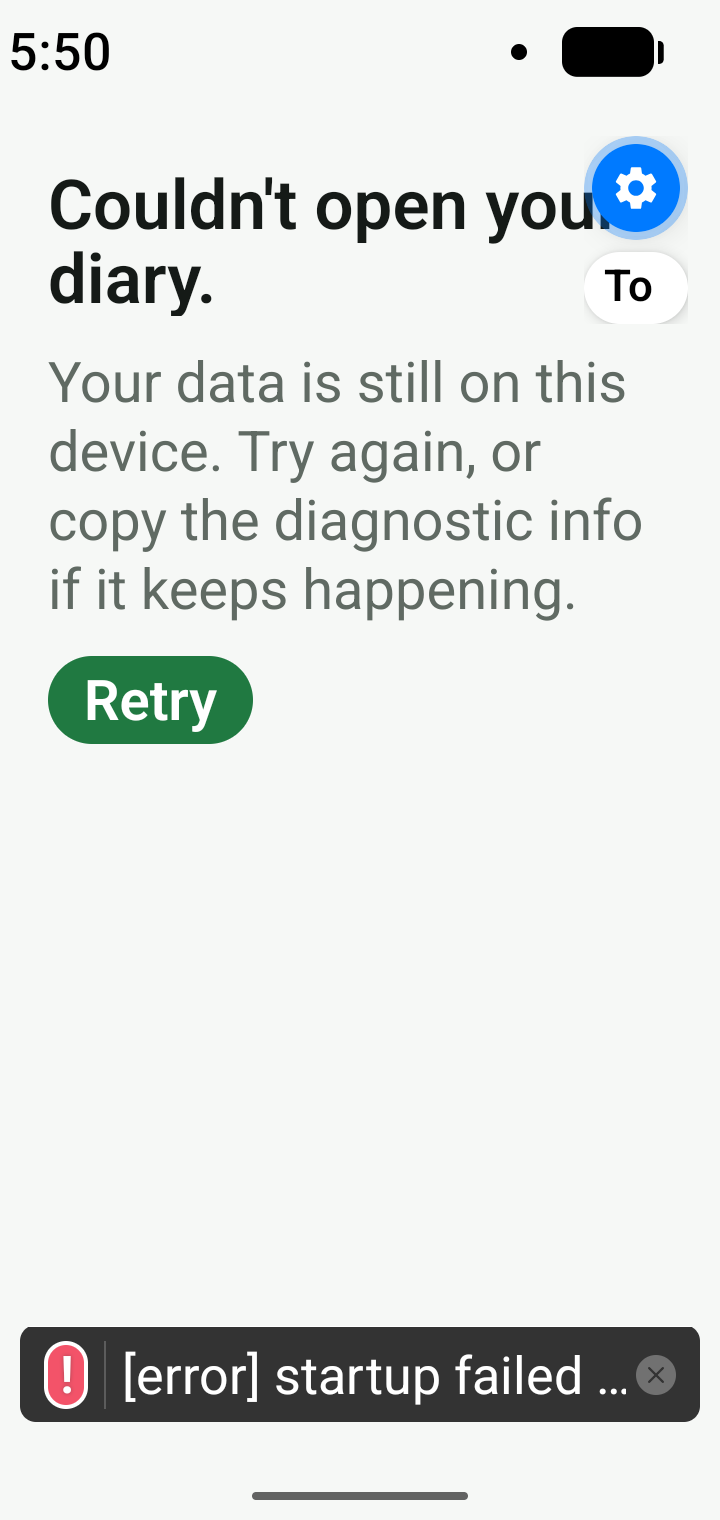
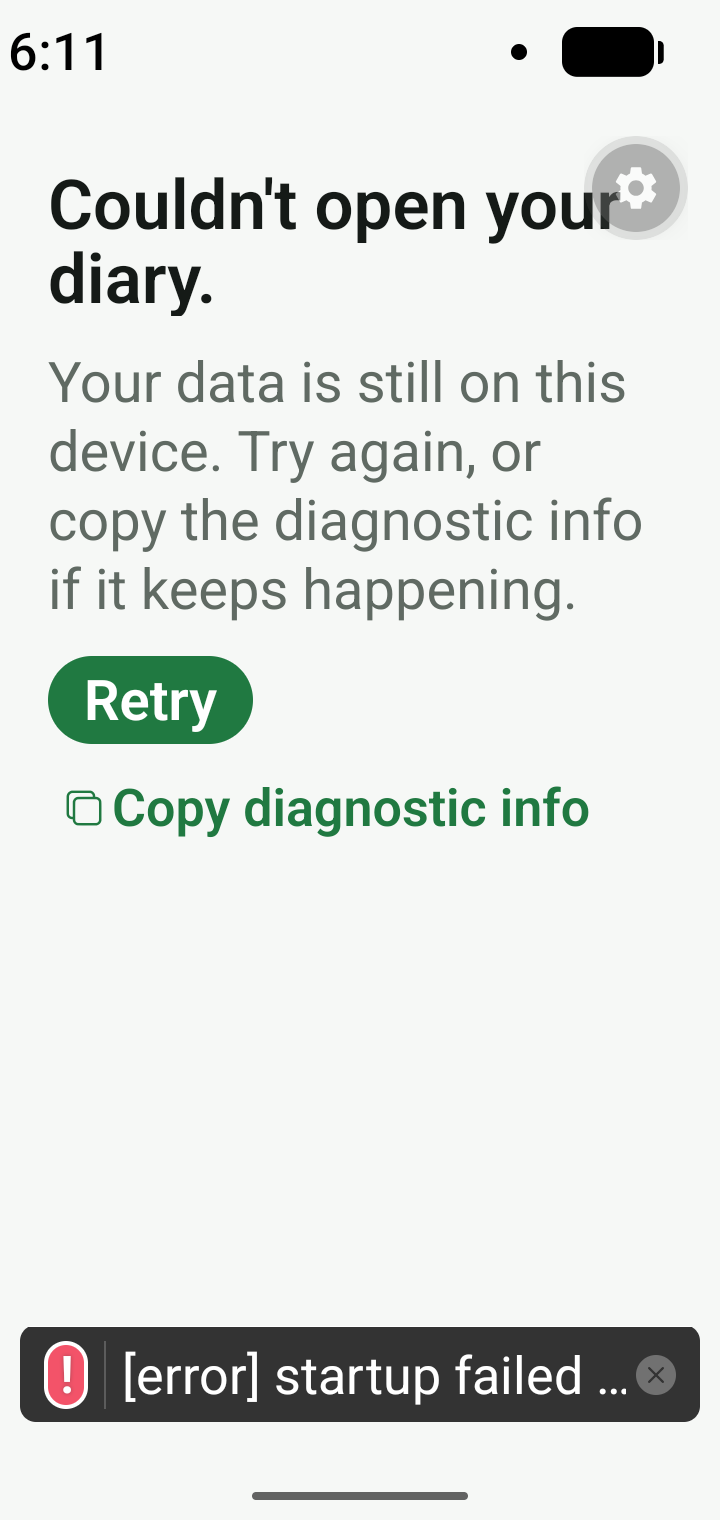
feat(bootstrap): crypto UUIDs and Copy diagnostic info
Adds expo-crypto (randomUUID for record ids) and expo-clipboard (UX-20
Copy diagnostic info), approved in M1-Q1. Both dev builds rebuilt; the
m0-shell flow closes the dev-client menu on a fresh install. Recovery
screenshots recaptured; Copy and Retry checked end to end on iOS.

Refs: DATA-03, UX-20, ARCH-15, ARCH-20

diff --git a/src/bootstrap/__tests__/startup.test.tsx b/src/bootstrap/__tests__/startup.test.tsx
@@ -44,7 +44,7 @@ describe('ARCH-17 / UX-20: StartupGate', () => {
   it('holds the launch screen until startup succeeds, then mounts the app', async () => {
     const start = deferred<AppServices>();
     await renderWithProviders(
-      <StartupGate start={() => start.promise} appVersion="0.1.0">
+      <StartupGate start={() => start.promise} appVersion="0.1.0" copyText={jest.fn()}>
         <MealCount />
       </StartupGate>,
     );
@@ -63,7 +63,7 @@ describe('ARCH-17 / UX-20: StartupGate', () => {
       .mockRejectedValueOnce(new MigrationError('Migration failed', 2))
       .mockResolvedValueOnce(services);
     await renderWithProviders(
-      <StartupGate start={start} appVersion="0.1.0">
+      <StartupGate start={start} appVersion="0.1.0" copyText={jest.fn()}>
         <MealCount />
       </StartupGate>,
     );
@@ -89,14 +89,9 @@ describe('UX-20: RecoveryScreen', () => {
     );
   });
 
-  it('copies diagnostic info when a clipboard is available; hides the action otherwise', async () => {
+  it('Copy diagnostic info copies versions + category; Retry retries', async () => {
     const copyText = jest.fn();
     const onRetry = jest.fn();
-    const first = await renderWithProviders(
-      <RecoveryScreen error={error} diagnostics={{ appVersion: '0.1.0', schemaVersion: 1 }} onRetry={onRetry} />,
-    );
-    expect(screen.queryByRole('button', { name: 'Copy diagnostic info' })).toBeNull();
-    await first.unmount();
     await renderWithProviders(
       <RecoveryScreen
         error={error}
@@ -107,6 +102,7 @@ describe('UX-20: RecoveryScreen', () => {
     );
     await fireEvent.press(screen.getByRole('button', { name: 'Copy diagnostic info' }));
     expect(copyText).toHaveBeenCalledWith(expect.stringContaining('error migration (v3)'));
+    expect(copyText.mock.calls[0][0]).not.toMatch(/SQLITE|meals/);
     await fireEvent.press(screen.getByRole('button', { name: 'Retry' }));
     expect(onRetry).toHaveBeenCalledTimes(1);
   });

diff --git a/src/bootstrap/RecoveryScreen.tsx b/src/bootstrap/RecoveryScreen.tsx
@@ -26,8 +26,8 @@ export type RecoveryScreenProps = {
   diagnostics: DiagnosticContext;
   onRetry: () => void;
   retrying?: boolean;
-  /** Clipboard writer; the action is hidden until one is available (M1-Q1). */
-  copyText?: (text: string) => Promise<void> | void;
+  /** Clipboard writer (expo-clipboard in the app). */
+  copyText: (text: string) => Promise<void> | void;
 };
 
 export function RecoveryScreen({ error, diagnostics, onRetry, retrying = false, copyText }: RecoveryScreenProps) {
@@ -56,13 +56,11 @@ export function RecoveryScreen({ error, diagnostics, onRetry, retrying = false, 
       <AppText color="textSecondary">{t('startup.body')}</AppText>
       <View style={{ gap: theme.spacing[2], alignItems: 'flex-start' }}>
         <PrimaryButton label={t('startup.retry')} onPress={onRetry} loading={retrying} testID="recovery-retry" />
-        {copyText ? (
-          <TextAction
-            label={t('startup.copyDiagnostics')}
-            icon="copy-outline"
-            onPress={() => void copyText(diagnosticInfo(error, diagnostics))}
-          />
-        ) : null}
+        <TextAction
+          label={t('startup.copyDiagnostics')}
+          icon="copy-outline"
+          onPress={() => void copyText(diagnosticInfo(error, diagnostics))}
+        />
       </View>
     </ScrollView>
   );

diff --git a/src/data/db/appIds.ts b/src/data/db/appIds.ts
@@ -1,14 +1,6 @@
-// The app's record-ID source (DATA-03). Uses `crypto.getRandomValues` when the runtime has it; Hermes on SDK 57
-// doesn't, so it falls back to Math.random bytes. Interim until M1-Q1 (expo-crypto) is decided: the swap is local
-// to this file and doesn't touch stored data (IDs are opaque UUID strings either way).
-import { uuidV4FromBytes, type IdGenerator } from './ids';
+// The app's record-ID source (DATA-03): cryptographically random v4 UUIDs from expo-crypto (M1-Q1).
+import { randomUUID } from 'expo-crypto';
 
-function randomBytes(): Uint8Array {
-  const bytes = new Uint8Array(16);
-  const cryptoApi = (globalThis as { crypto?: { getRandomValues?: (b: Uint8Array) => Uint8Array } }).crypto;
-  if (cryptoApi?.getRandomValues) return cryptoApi.getRandomValues(bytes);
-  for (let i = 0; i < bytes.length; i++) bytes[i] = Math.floor(Math.random() * 256);
-  return bytes;
-}
+import type { IdGenerator } from './ids';
 
-export const appIds: IdGenerator = { newId: () => uuidV4FromBytes(randomBytes()) };
+export const appIds: IdGenerator = { newId: () => randomUUID() };

diff --git a/src/data/db/__tests__/ids.test.ts b/src/data/db/__tests__/ids.test.ts
@@ -1,12 +1,13 @@
-import { isUuid, sequentialIds, uuidV4FromBytes } from '../ids';
+import { appIds } from '../appIds';
+import { isUuid, sequentialIds } from '../ids';
 
 describe('DATA-03: UUID ids', () => {
-  it('formats random bytes as a version-4 UUID', () => {
-    const id = uuidV4FromBytes(new Uint8Array(16).fill(0xff));
-    expect(id).toBe('ffffffff-ffff-4fff-bfff-ffffffffffff');
-    expect(isUuid(id)).toBe(true);
-    expect(isUuid(uuidV4FromBytes(new Uint8Array(16)))).toBe(true);
-    expect(() => uuidV4FromBytes(new Uint8Array(15))).toThrow(RangeError);
+  it('the app generates distinct v4 UUIDs', () => {
+    const a = appIds.newId();
+    const b = appIds.newId();
+    expect(isUuid(a)).toBe(true);
+    expect(isUuid(b)).toBe(true);
+    expect(a).not.toBe(b);
   });
 
   it('sequential test ids are valid and distinct', () => {

diff --git a/src/app/_layout.tsx b/src/app/_layout.tsx
@@ -1,3 +1,4 @@
+import { setStringAsync } from 'expo-clipboard';
 import { Stack } from 'expo-router';
 import { StatusBar } from 'expo-status-bar';
 
@@ -8,10 +9,13 @@ import { StartupGate } from '@/bootstrap/StartupGate';
 
 const { config } = initializeApp();
 
+// UX-20 Copy diagnostic info (versions + error category only).
+const copyText = (text: string) => void setStringAsync(text);
+
 export default function RootLayout() {
   return (
     <AppProviders>
-      <StartupGate start={startServices} appVersion={config.appVersion}>
+      <StartupGate start={startServices} appVersion={config.appVersion} copyText={copyText}>
         {/* Light content: the app bar is green in light mode and dark surface in dark mode (DS-07). */}
         <StatusBar style="light" />
         <Stack screenOptions={{ headerShown: false }}>

diff --git a/src/data/db/ids.ts b/src/data/db/ids.ts
@@ -11,16 +11,6 @@ export function isUuid(value: string): boolean {
   return UUID.test(value);
 }
 
-/** Formats 16 random bytes as an RFC 9562 version-4 UUID. */
-export function uuidV4FromBytes(bytes: Uint8Array): string {
-  if (bytes.length !== 16) throw new RangeError('Expected 16 bytes');
-  const b = Uint8Array.from(bytes);
-  b[6] = (b[6]! & 0x0f) | 0x40;
-  b[8] = (b[8]! & 0x3f) | 0x80;
-  const hex = Array.from(b, (x) => x.toString(16).padStart(2, '0')).join('');
-  return `${hex.slice(0, 8)}-${hex.slice(8, 12)}-${hex.slice(12, 16)}-${hex.slice(16, 20)}-${hex.slice(20)}`;
-}
-
 /** Deterministic IDs for tests: `00000000-0000-4000-8000-000000000001`, … */
 export function sequentialIds(start = 1): IdGenerator {
   let next = start;

diff --git a/jest.setup.ts b/jest.setup.ts
@@ -10,3 +10,6 @@ jest.spyOn(console, 'debug').mockImplementation(() => undefined);
 
 // ARCH-18: app code opens SQLite through expo-sqlite; in Jest that's real SQL on Node's built-in SQLite.
 jest.mock('expo-sqlite', () => require('./src/shared/testing/expoSqliteMock'));
+
+// expo-crypto's native randomUUID, backed by Node's (same RFC 9562 v4 output).
+jest.mock('expo-crypto', () => ({ randomUUID: () => require('crypto').randomUUID() }));

diff --git a/src/bootstrap/StartupGate.tsx b/src/bootstrap/StartupGate.tsx
@@ -22,7 +22,7 @@ type State =
 export type StartupGateProps = {
   start: () => Promise<AppServices>;
   appVersion: string;
-  copyText?: (text: string) => Promise<void> | void;
+  copyText: (text: string) => Promise<void> | void;
   children: ReactNode;
 };
 

diff --git a/docs/qa/M1/README.md b/docs/qa/M1/README.md
@@ -7,6 +7,8 @@ M1's only new screen is the UX-20 recovery screen. The dev build logs the failur
 | `ios-recovery-{light,dark}-{default,largest}.png` | iPhone 17e (iOS 27). Captured by `scripts/qa/m1-recovery-ios.sh`, which triggers a real "database newer than this app" failure (it adds a `schema_version` row and removes it on exit). At the largest size the screen scrolls, so Retry is below the fold |
 | `android-recovery-{light,dark}-{default,largest}.png` | Pixel_10 as a 360x760 dp small phone, font scale 2.0 for largest. Captured by `scripts/qa/m1-recovery-android.sh`: it pulls the DB, adds the row with the host `sqlite3` and pushes it back through `run-as`; the EXIT trap restores the original DB and settings. The gear and "To…" bubbles are dev-client overlays |
 
-Device checks (2026-09-25, dev builds rebuilt with `expo-sqlite` + `expo-secure-store`):
+Device checks (2026-09-25, dev builds rebuilt with `expo-sqlite`, `expo-secure-store`, `expo-crypto`, `expo-clipboard`):
 - Android (Pixel_10) and iOS (iPhone 17e): `.maestro/m0-shell.yaml` passes (21 s / 14 s) through the real SQLite startup. Metro log: `migration applied {version: 1, outcome: ok}` then `database ready` (239 ms on Android).
 - On-device DBs checked with `sqlite3`: WAL on, `schema_version` 1, meals `Breakfast, Lunch, Dinner, Snacks` in order, provisional 2,000 kcal goal from 2026-09-25, `goals_confirmed_at` NULL. Units follow the device measurement system: `lb` on the en-US emulator, `kg` on the simulator.
+- Fresh install on Android (`pm clear`): seeded meal/goal IDs are `expo-crypto` v4 UUIDs; `m0-shell` passes (it now closes the dev-client menu that opens on first launch).
+- iOS recovery end to end: with the newer-schema row present, `Copy diagnostic info` put `app 0.1.0 · schema 1 · ios 27.0 · error migration (v999)` on the simulator clipboard (`simctl pbpaste`). After the row was removed, `Retry` reached the Diary without relaunching.
